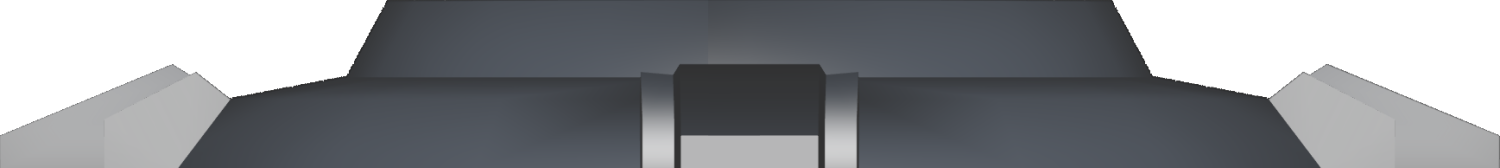
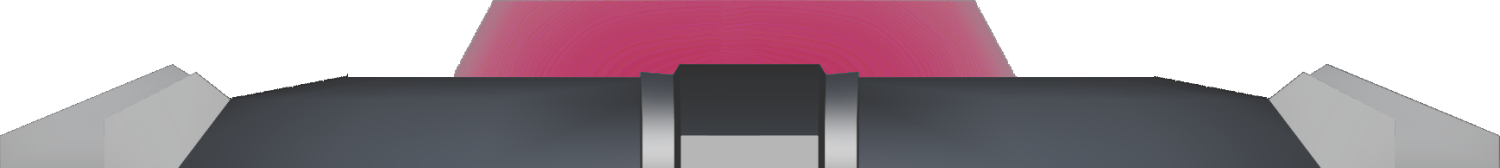
맵읽기 오브젝트위치 수정

Changed region(s): [[0.2147, 0.0, 0.7667, 0.4762]]

diff --git a/sfml-template/Scene/PlayScene.cpp b/sfml-template/Scene/PlayScene.cpp
@@ -7,7 +7,6 @@
 
 void PlayScene::Update(float dt)
 {
-
 	PlayerMove(dt);
 	GravityEffect(dt);
 	worldView.setCenter(player->GetPos());
@@ -35,20 +34,24 @@ void PlayScene::Draw(RenderWindow& window)
 	for (auto v : cube) {
 		v->Draw(window);
 	}
+
+	for (auto v : checkcurrgrid) {
+		window.draw(*v);
+	}
 }
 
 void PlayScene::MakeWall()
 {
 	SmallTile* temp = new SmallTile();
 
-
 	wall.push_back(temp);
-	wall.back()->SetPos(currgird);
+	wall.back()->SetOrigin(Origins::MC);
+	wall.back()->SetPos(currgrid);
 
 	wall.back()->SetSize({ GRIDSIZE ,GRIDSIZE });
 
 
-	currgird.x += GRIDSIZE;
+	currgrid.x += GRIDSIZE;
 
 }
 
@@ -56,11 +59,13 @@ void PlayScene::MakeCube()
 {
 	Cube* temp = new Cube();
 
-	cube.push_back(temp);
-	cube.back()->SetPos(currgird);
 
-	cube.back()->SetSize({ GRIDSIZE ,GRIDSIZE });
-	currgird.x += GRIDSIZE;
+	cube.push_back(temp);
+	cube.back()->SetOrigin(Origins::BC);
+	cube.back()->SetPos({ currgrid.x,currgrid.y+GRIDSIZE/2 });
+
+	cube.back()->SetSize({ GRIDSIZE/1.5 ,GRIDSIZE/1.5 });
+	currgrid.x += GRIDSIZE;
 
 }
 
@@ -68,28 +73,45 @@ void PlayScene::MakePlayer()
 {
 	player = new Player();
 
-
-	player->SetPos(currgird);
-
 	player->SetSize({ 20,50 });
-	player->SetOrigin(Origins::MC);
-	currgird.x += GRIDSIZE;
+	player->SetOrigin(Origins::BC);
+	player->SetPos({ currgrid.x,currgrid.y+GRIDSIZE/2 });
+
+	currgrid.x += GRIDSIZE;
 }
 
 void PlayScene::MakeButton(int dir)
 {
-	//Button* temp = new Button();
+	Button* temp = new Button();
 
-	//button.push_back(temp);
+	button.push_back(temp);
+	button.back()->SetOrigin(Origins::BC);
 
-	////top of gird
-	//if (dir == 0) {
-	//	button.back()->SetRotation(dir);
-	//	button.back()->SetPos();
+	button.back()->SetPos(currgrid);
+	button.back()->SetRotation(dir);
+	//button.back()->FitScale(TILE_SIZE);
+	
+	if (dir == 0) {			//top of gird
+		button.back()->SetPos({ currgrid.x,currgrid.y - GRIDSIZE / 2 });
+		button.back()->SetSize({ GRIDSIZE,GRIDSIZE/4 });
 
-	//}
-	//button.back()->SetSize({ GRIDSIZE ,GRIDSIZE });
-	//currgird.x += GRIDSIZE;
+	}
+	else if (dir == 1) {	//right of gird
+		button.back()->SetPos({ currgrid.x + GRIDSIZE / 2,currgrid.y });
+		button.back()->SetSize({ GRIDSIZE,GRIDSIZE / 4 });
+
+	}
+	else if (dir == 2) {	//bottom of gird
+		button.back()->SetPos({ currgrid.x,currgrid.y + GRIDSIZE / 2 });
+		button.back()->SetSize({ GRIDSIZE,GRIDSIZE / 4 });
+
+	}
+	else if (dir == 3) {	//left of gird
+		button.back()->SetPos({ currgrid.x - GRIDSIZE / 2,currgrid.y });
+		button.back()->SetSize({ GRIDSIZE ,GRIDSIZE / 4 });
+
+	}
+	currgrid.x += GRIDSIZE;
 }
 
 void PlayScene::PlayerMove(float dt)
@@ -144,11 +166,18 @@ PlayScene::PlayScene(string path)
 	while (getline(fin, str)) {
 		//verifying each character
 		for (int i = 0; i < str.size() + 1; i++) {
+			checkcurrgrid.push_back( new RectangleShape());
+			Utils::SetOrigin(*checkcurrgrid.back(), Origins::MC);
+			checkcurrgrid.back()->setSize({ 10,10 });
+			checkcurrgrid.back()->setFillColor(Color::Black);
+			checkcurrgrid.back()->setPosition(currgrid);
 
+			///////////get button side///////
 			int type;
 			if (str[i] == 'b' || str[i] == 'B') {
 				type = (int)str[i + 1] - 48;
 			}
+			/////////////////////////////
 
 			switch (str[i]) {
 			case '1':
@@ -169,10 +198,11 @@ PlayScene::PlayScene(string path)
 				i++;
 				break;
 			default:
-				currgird.x += GRIDSIZE;
+				currgrid.x += GRIDSIZE;
 			}
+
 		}
-		currgird = { 0,currgird.y + GRIDSIZE };
+		currgrid = { GRIDSIZE/2,currgrid.y + GRIDSIZE };
 
 	}
 
@@ -207,6 +237,11 @@ void PlayScene::Release()
 		delete v;
 	}
 	cube.clear();
+
+	for (auto v : checkcurrgrid) {
+		delete v;
+	}
+	checkcurrgrid.clear();
 }
 
 void PlayScene::Enter()

diff --git a/sfml-template/Scene/PlayScene.h b/sfml-template/Scene/PlayScene.h
@@ -39,6 +39,8 @@ private:
 		
 	bool groundede = false;
 	int jump = 100;
-	Vector2f currgird = { 0,0 };
+	Vector2f currgrid = { GRIDSIZE/2,GRIDSIZE/2 };
+
+	vector<RectangleShape*> checkcurrgrid;
 };
 
